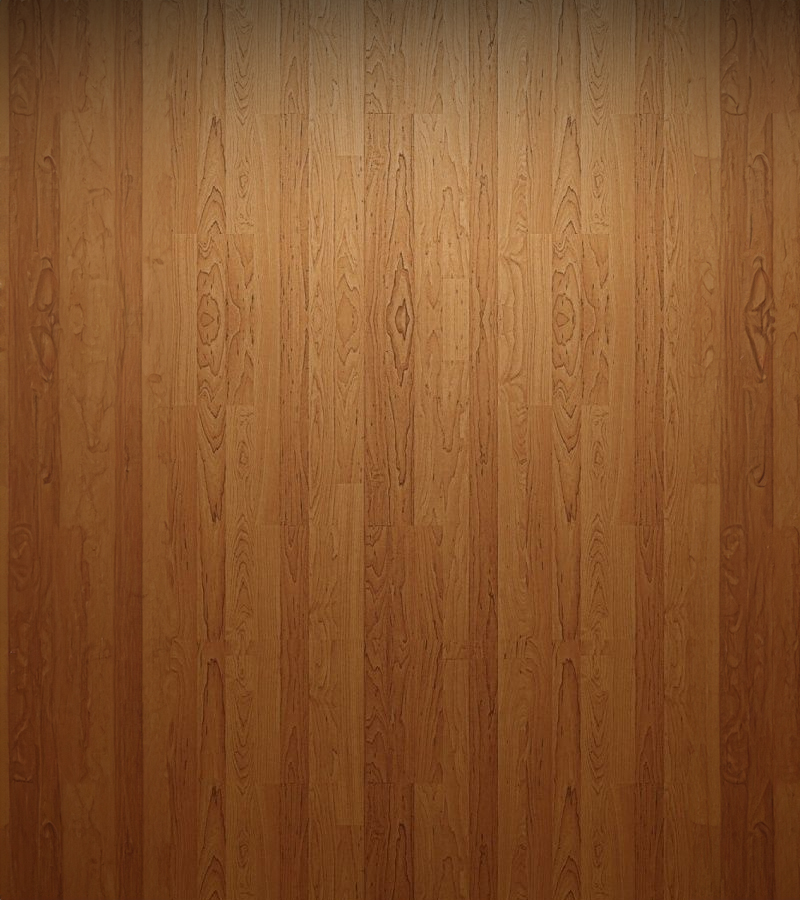
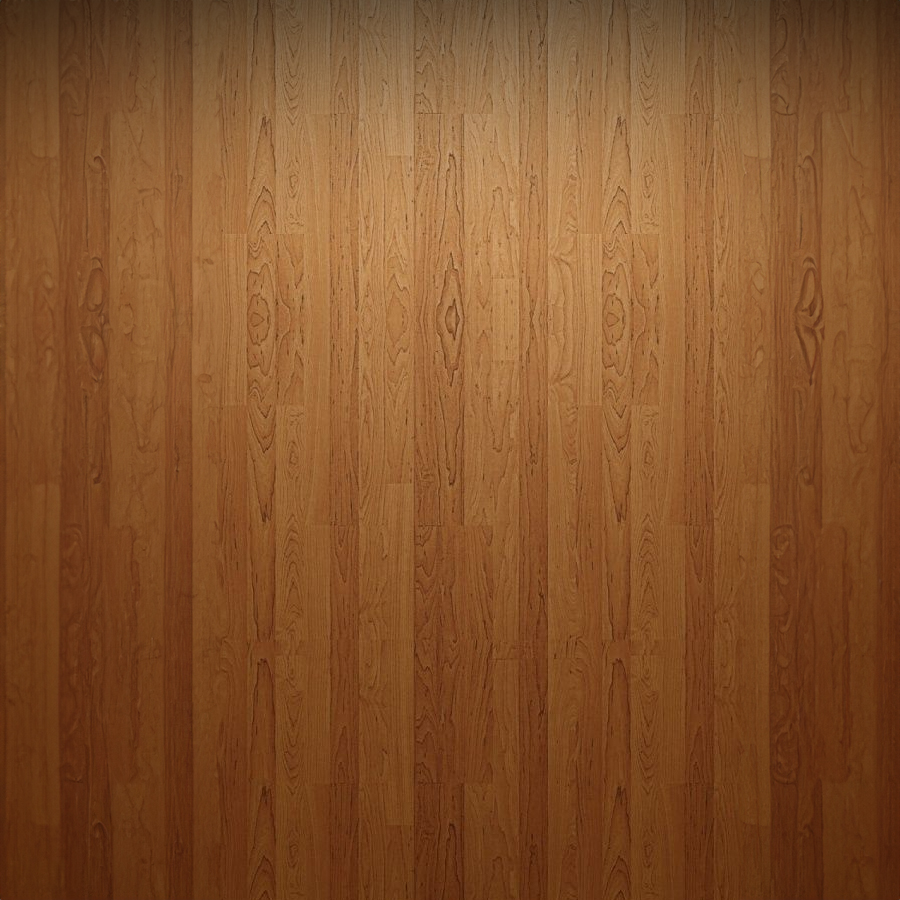
width

diff --git a/src/app/scss/_main.scss b/src/app/scss/_main.scss
@@ -15,7 +15,7 @@
 .content {
     &_editable {
         // height: calc(100vh - 100px);
-        width: 62%;
+        width: 72%;
 
         .img-full {
             filter: drop-shadow(0 25px 25px rgb(0 0 0/0.15));
@@ -465,7 +465,7 @@
 
             &.white {
                 top: auto;
-                left: 40px;
+                left: 80px;
                 bottom: 66px;
                 transform: none;
 
@@ -508,9 +508,10 @@
 
 
 .Bord_GD {
-    width: 800px;
+    width: 100%;
     margin: 0 auto;
     position: relative;
+    background-size: cover;
 
     &.bg-border {
         position: relative;
